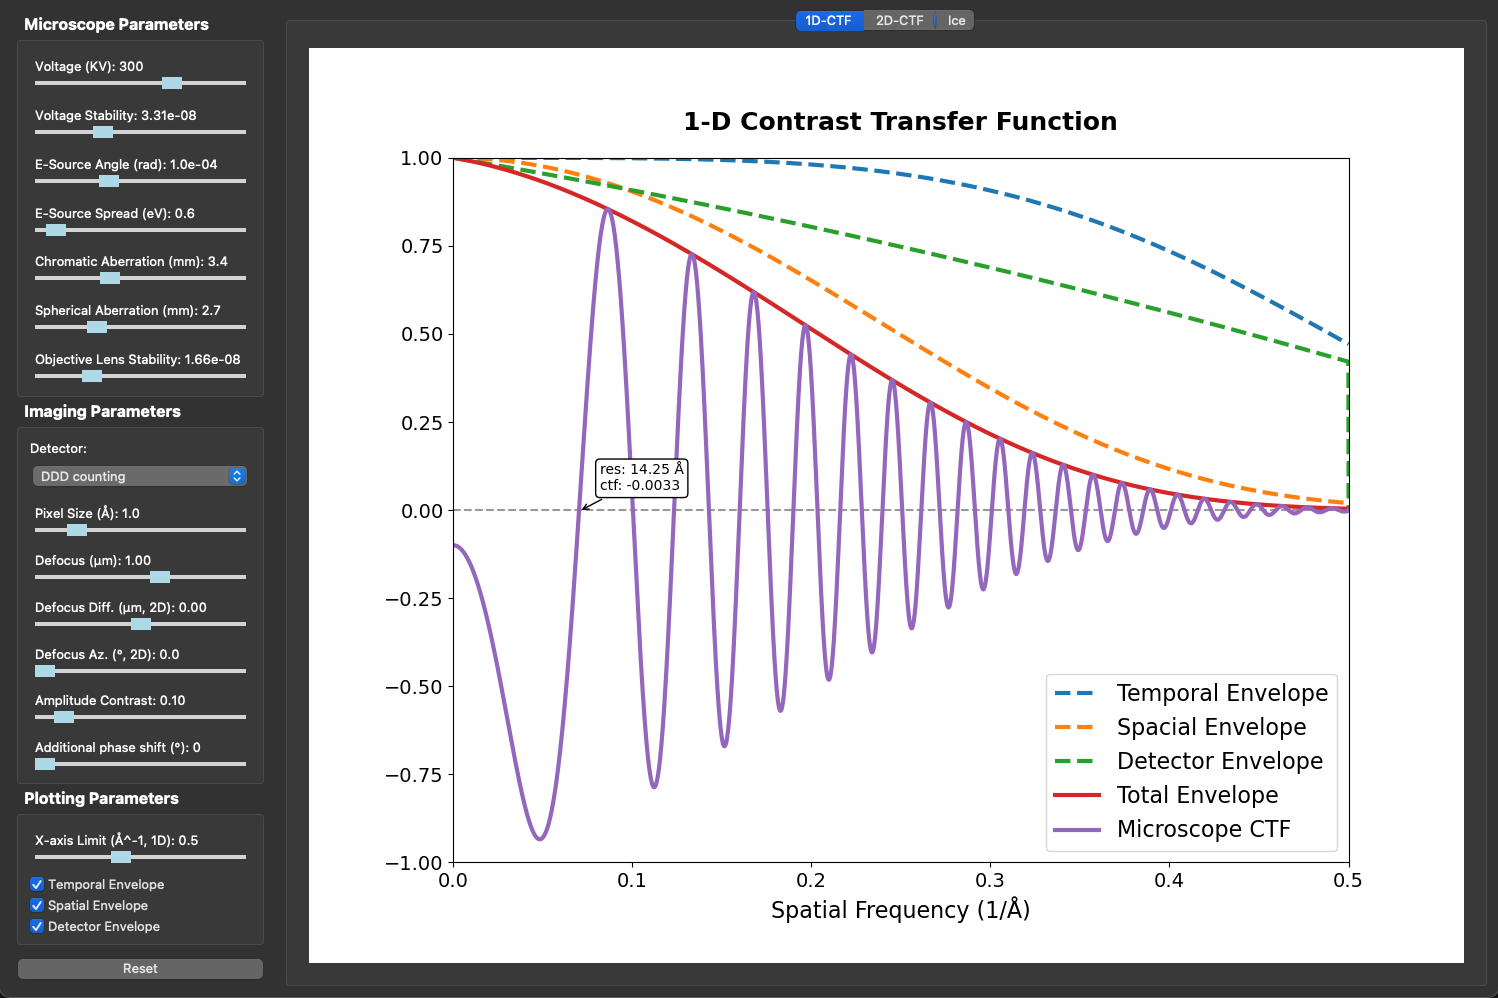
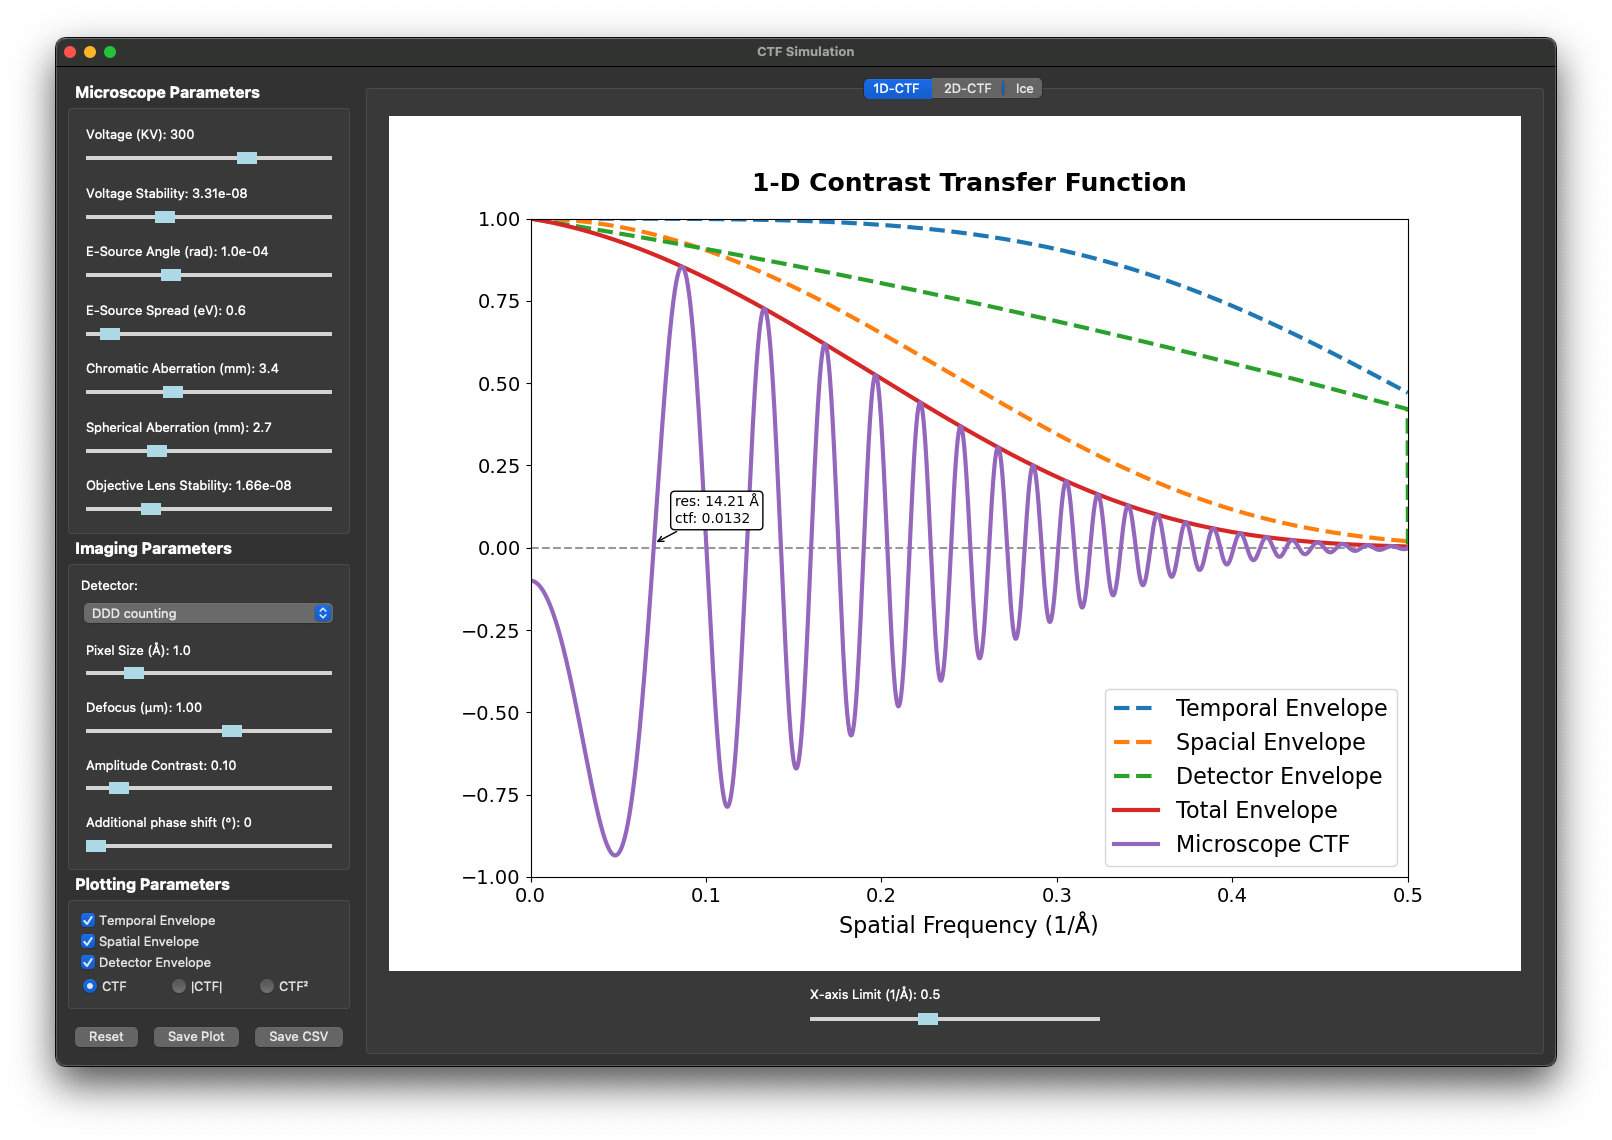
implement save functions

diff --git a/controller.py b/controller.py
@@ -1,10 +1,11 @@
 import math
 import numpy as np
+import pandas as pd
 from typing import Optional
 from gui import CTFSimGUI
 from models import CTFIce1D, CTFIce2D
 from matplotlib.colors import Normalize
-from PyQt5.QtWidgets import QRadioButton
+from PyQt5.QtWidgets import QRadioButton, QFileDialog
 
 
 class AppController(CTFSimGUI):
@@ -280,8 +281,10 @@ class AppController(CTFSimGUI):
         self.temporal_env_check.stateChanged.connect(lambda value, key="temporal_env": self.update_ctf(key, value))
         self.spatial_env_check.stateChanged.connect(lambda value, key="spatial_env": self.update_ctf(key, value))
         self.detector_env_check.stateChanged.connect(lambda value, key="detector_env": self.update_ctf(key, value))
-        self.plot_tabs.currentChanged.connect(self.update_ctf)
+        self.plot_tabs.currentChanged.connect(lambda value, key="tab_switch": self.update_ctf(key, value))
         self.reset_button.clicked.connect(self.reset_parameters)
+        self.save_img_button.clicked.connect(self.save_plot)
+        self.save_csv_button.clicked.connect(self.save_csv)
         self.canvas_1d.mpl_connect("motion_notify_event", self.on_hover)
         self.canvas_2d.mpl_connect("motion_notify_event", self.on_hover)
         self.ice_thickness_slider.valueChanged.connect(lambda value, key="ice": self.update_ctf(key, value))
@@ -355,6 +358,15 @@ class AppController(CTFSimGUI):
         elif key == "ice":
             self.ctf_1d.ice_thickness = value
             self.ctf_2d.ice_thickness = value
+        elif key == "tab_switch":
+            if value == 0:  # 1D tab
+                pass
+            elif value == 1:  # 2D tab
+                self.defocus_diff_slider_2d.set_value(self.ctf_2d.df_diff)
+                self.defocus_az_slider_2d.set_value(self.ctf_2d.df_az)
+            elif value == 2:  # Ice tab
+                self.defocus_diff_slider_ice.set_value(self.ctf_2d.df_diff)
+                self.defocus_az_slider_ice.set_value(self.ctf_2d.df_az)
 
         self.update_plot(self.radio_button_group.checkedButton())
 
@@ -389,6 +401,7 @@ class AppController(CTFSimGUI):
             self.image.set_norm(Normalize(vmin=ylim[0], vmax=ylim[1]))
             self.canvas_2d.draw_idle()
         else:
+            # Update ice tab plots
             self.line_ice_ref[0].set_data(self.freqs_1d, wrap_func(self.ctf_1d.dampened_ctf_1d(self.freqs_1d)))
             self.line_ice[0].set_data(self.freqs_1d, wrap_func(self.ctf_1d.dampened_ctf_ice(self.freqs_1d)))
             self.canvas_ice.axes[1].set_xlim(0, self.xlim_slider_ice.get_value())
@@ -404,6 +417,86 @@ class AppController(CTFSimGUI):
         """
         self.setup_default_gui_values()
         self.update_ctf()
+
+    def save_plot(self) -> None:
+        """Opens a file dialog and saves the plots in the current tab as an image."""
+        options = QFileDialog.Options()
+        file_path, _ = QFileDialog.getSaveFileName(
+            self, "Save Plot", "", "PNG Files (*.png);;JPEG Files (*.jpg);;PDF Files (*.pdf);;All Files (*)",
+            options=options
+        )
+
+        if not file_path:
+            return  # Exit if no file is selected
+
+        if self.plot_tabs.currentIndex() == 0:
+            self.canvas_1d.fig.savefig(file_path, dpi=300)
+        elif self.plot_tabs.currentIndex() == 1:
+            self.canvas_2d.fig.savefig(file_path, dpi=300)
+        elif self.plot_tabs.currentIndex() == 2:
+            self.canvas_ice.fig.savefig(file_path, dpi=300)
+
+    def save_csv(self) -> None:
+        """Opens a file dialog and saves the plotted data in the current tab as a CSV file."""
+        wrap_func = self._setup_ctf_wrap_func()
+        options = QFileDialog.Options()
+        file_path, _ = QFileDialog.getSaveFileName(
+            self, "Save Data", "", "CSV Files (*.csv);;All Files (*)",
+            options=options
+        )
+
+        if not file_path:
+            return  # Exit if no file is selected
+
+        tab_index = self.plot_tabs.currentIndex()
+
+        if tab_index == 0:  # 1D CTF
+            df = self._generate_ctf_1d_data(wrap_func)
+            df.to_csv(file_path, index=False)
+
+        elif tab_index == 1:  # 2D CTF
+            x_full, y_full = self._get_full_meshgrid()
+            df = self._generate_ctf_2d_data(wrap_func, x_full, y_full, ice=False)
+            df.to_csv(file_path, index=False)
+
+        elif tab_index == 2:  # Ice CTF
+            x_full, y_full = self._get_full_meshgrid()
+            with open(file_path, "w") as f:
+                f.write("# 1D CTF\n")
+                self._generate_ctf_1d_data(wrap_func).to_csv(f, index=False)
+
+                f.write("\n# 2D CTF\n")
+                self._generate_ctf_2d_data(wrap_func, x_full, y_full, ice=True).to_csv(f, index=False)
+
+    def _generate_ctf_1d_data(self, wrap_func) -> pd.DataFrame:
+        """Generates 1D CTF data as a pandas DataFrame."""
+        return pd.DataFrame({
+            "freqs_1d": self.freqs_1d,
+            "ctf": wrap_func(self.ctf_1d.ctf_1d(self.freqs_1d)),
+            "ctf_dampened": wrap_func(self.ctf_1d.dampened_ctf_1d(self.freqs_1d)),
+            "temporal_env": wrap_func(self.ctf_1d.Et(self.freqs_1d)),
+            "spatial_env": wrap_func(self.ctf_1d.Es_1d(self.freqs_1d)),
+            "detector_env": wrap_func(self.ctf_1d.Ed(self.freqs_1d)),
+            "total_env": wrap_func(self.ctf_1d.Etotal_1d(self.freqs_1d)),
+        })
+
+    def _generate_ctf_2d_data(self, wrap_func, x_full, y_full, ice: bool) -> pd.DataFrame:
+        """Generates 2D CTF data as a pandas DataFrame."""
+        return pd.DataFrame({
+            "freqs_x": x_full.flatten(),
+            "freqs_y": y_full.flatten(),
+            "ctf_no_ice": wrap_func(self.ctf_2d.ctf_2d(self.fx, self.fy)).flatten(),
+            "ctf_no_ice_dampened": wrap_func(self.ctf_2d.dampened_ctf_2d(self.fx, self.fy)).flatten(),
+            "ctf_ice": wrap_func(self.ctf_2d.ctf_ice(self.fx, self.fy)).flatten() if ice else None,
+            "ctf_ice_dampened": wrap_func(self.ctf_2d.dampened_ctf_ice(self.fx, self.fy)).flatten() if ice else None,
+            "total_env": wrap_func(self.ctf_2d.Etotal_2d(self.fx, self.fy)).flatten(),
+        })
+
+    def _get_full_meshgrid(self) -> tuple[np.ndarray, np.ndarray]:
+        """Generates a full meshgrid for 2D frequency data."""
+        x_full = np.broadcast_to(self.fx, (self.image_size, self.image_size))
+        y_full = np.broadcast_to(self.fy, (self.image_size, self.image_size))
+        return x_full, y_full
 
     def on_hover(self, event) -> None:
         """

diff --git a/gui.py b/gui.py
@@ -104,11 +104,11 @@ class CTFSimGUI(QMainWindow):
         self.right_panel = QVBoxLayout()
         self.main_layout.addLayout(self.right_panel, stretch=1)
 
-        # 2) Build each section of the left panel (microscope, imaging, plotting, and reset button.)
+        # 2) Build each section of the left panel (microscope, imaging, plotting, and buttons.)
         self._build_microscope_section()
         self._build_imaging_section()
         self._build_plotting_section()
-        self._build_reset_button()
+        self._build_button_section()
 
         # 3) Create the tabbed plots for the right panel
         self._build_plot_tabs()
@@ -117,7 +117,7 @@ class CTFSimGUI(QMainWindow):
         self.left_panel.addWidget(self.microscope_box)
         self.left_panel.addWidget(self.imaging_box)
         self.left_panel.addWidget(self.plotting_box)
-        self.left_panel.addWidget(self.reset_button)
+        self.left_panel.addLayout(self.button_box)
 
         # 5) Put tabbed plots in the right panel
         self.right_panel.addWidget(self.plot_tabs)
@@ -179,7 +179,7 @@ class CTFSimGUI(QMainWindow):
 
     def _build_plotting_section(self) -> None:
         """
-        Create a QGroupBox for 'Plotting Parameters' (X-axis limit, envelope function toggles, etc.).
+        Create a QGroupBox for 'Plotting Parameters' (envelope function toggles, CTFs, etc.).
         """
         self.plotting_box = QGroupBox("Plotting Parameters")
 
@@ -219,12 +219,22 @@ class CTFSimGUI(QMainWindow):
         self.plotting_box.setLayout(layout)
         self.plotting_box.setStyleSheet(SHARED_QGROUPBOX_STYLESHEET)
 
-    def _build_reset_button(self) -> None:
+    def _build_button_section(self) -> None:
         """
-        Create the Reset button.
+        Create a box for all the push buttons.
         """
-        self.reset_button = QPushButton("Reset")
+        self.button_box = QHBoxLayout()
 
+        # Create buttons
+        self.reset_button = QPushButton("Reset")
+        self.save_img_button = QPushButton("Save Plot")
+        self.save_csv_button = QPushButton("Save CSV")
+        
+        self.button_box.addWidget(self.reset_button)
+        self.button_box.addWidget(self.save_img_button)
+        self.button_box.addWidget(self.save_csv_button)
+
+ 
     def _build_plot_tabs(self) -> None:
         """
         Create a QTabWidget with two tabs for 1D-CTF and 2D-CTF plots.
@@ -234,7 +244,7 @@ class CTFSimGUI(QMainWindow):
 
         # 1D Plot Tab
         self.canvas_1d = MplCanvas(self, width=5, height=4)
-        self.xlim_slider_1d = FloatSlider("X-axis Limit (Å^-1, 1D)", min_value=0.1, max_value=1.1, step=0.01, value_format="{:.1f}" )
+        self.xlim_slider_1d = FloatSlider("X-axis Limit (1/Å)", min_value=0.1, max_value=1.1, step=0.01, value_format="{:.1f}" )
         
         layout_1d_sliders = QHBoxLayout()
         layout_1d_sliders.addWidget(self.xlim_slider_1d)
@@ -246,8 +256,8 @@ class CTFSimGUI(QMainWindow):
 
         # 2D Plot Tab
         self.canvas_2d = MplCanvas(self, width=5, height=4)
-        self.defocus_diff_slider_2d = FloatSlider("Defocus Diff. (µm, 2D)", min_value=-5, max_value=5, step=0.01, value_format="{:.2f}")
-        self.defocus_az_slider_2d = FloatSlider("Defocus Az. (°, 2D)", min_value=0, max_value=180, step=0.1, value_format="{:.1f}")
+        self.defocus_diff_slider_2d = FloatSlider("Defocus Difference (µm)", min_value=-5, max_value=5, step=0.01, value_format="{:.2f}")
+        self.defocus_az_slider_2d = FloatSlider("Defocus Azimuth (°)", min_value=0, max_value=180, step=0.1, value_format="{:.1f}")
 
         layout_2d_sliders = QHBoxLayout()
         layout_2d_sliders.addWidget(self.defocus_diff_slider_2d)
@@ -267,9 +277,9 @@ class CTFSimGUI(QMainWindow):
         }
         self.canvas_ice = MplCanvas(self, subplot_grid=(2, 2), subplot_args=subplot_args, width=5, height=4)
         self.ice_thickness_slider = FloatSlider("Ice Thickness (nm)", min_value=1, max_value=1000, step=1, value_format="{:.0f}" )
-        self.xlim_slider_ice = FloatSlider("X-axis Limit (Å^-1, 1D)", min_value=0.1, max_value=1.1, step=0.01, value_format="{:.1f}" )
-        self.defocus_diff_slider_ice = FloatSlider("Defocus Diff. (µm, 2D)", min_value=-5, max_value=5, step=0.01, value_format="{:.2f}")
-        self.defocus_az_slider_ice = FloatSlider("Defocus Az. (°, 2D)", min_value=0, max_value=180, step=0.1, value_format="{:.1f}")        
+        self.xlim_slider_ice = FloatSlider("X-axis Limit (1/Å)", min_value=0.1, max_value=1.1, step=0.01, value_format="{:.1f}" )
+        self.defocus_diff_slider_ice = FloatSlider("Defocus Difference (µm)", min_value=-5, max_value=5, step=0.01, value_format="{:.2f}")
+        self.defocus_az_slider_ice = FloatSlider("Defocus Azimuth (°)", min_value=0, max_value=180, step=0.1, value_format="{:.1f}")        
         
         layout_ice_sliders = QHBoxLayout()
         layout_ice_sliders.addWidget(self.ice_thickness_slider)
